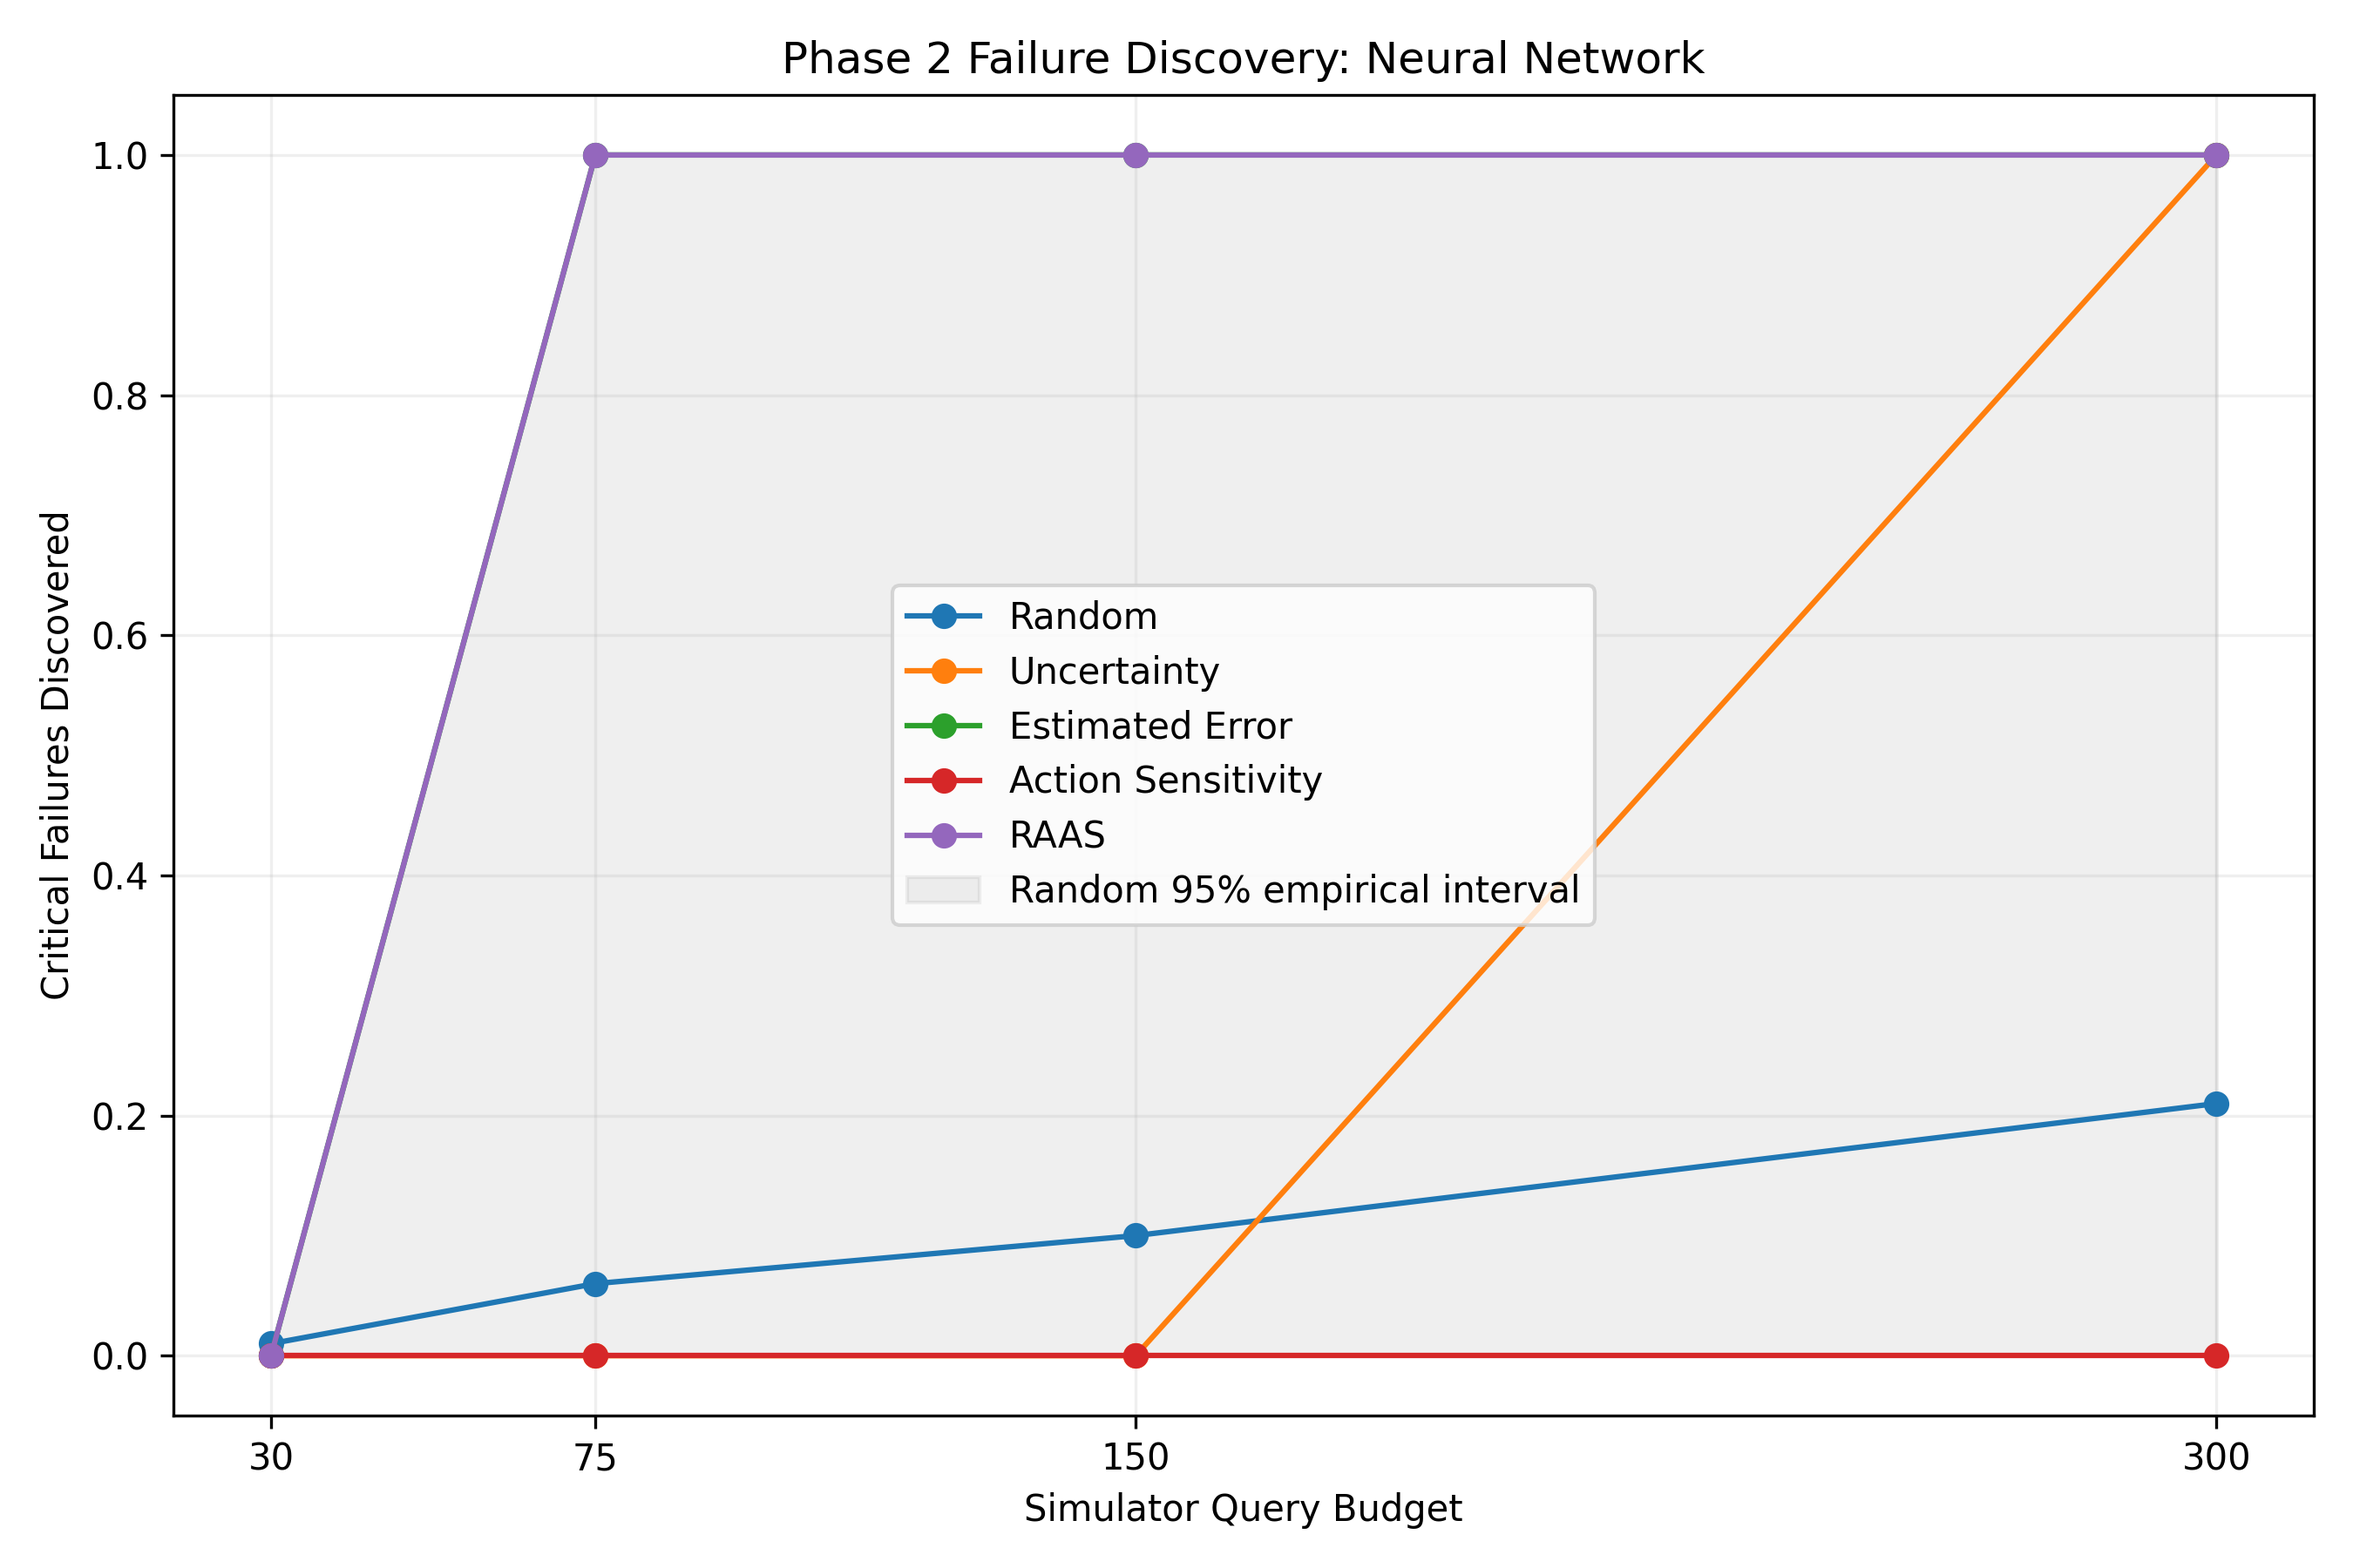
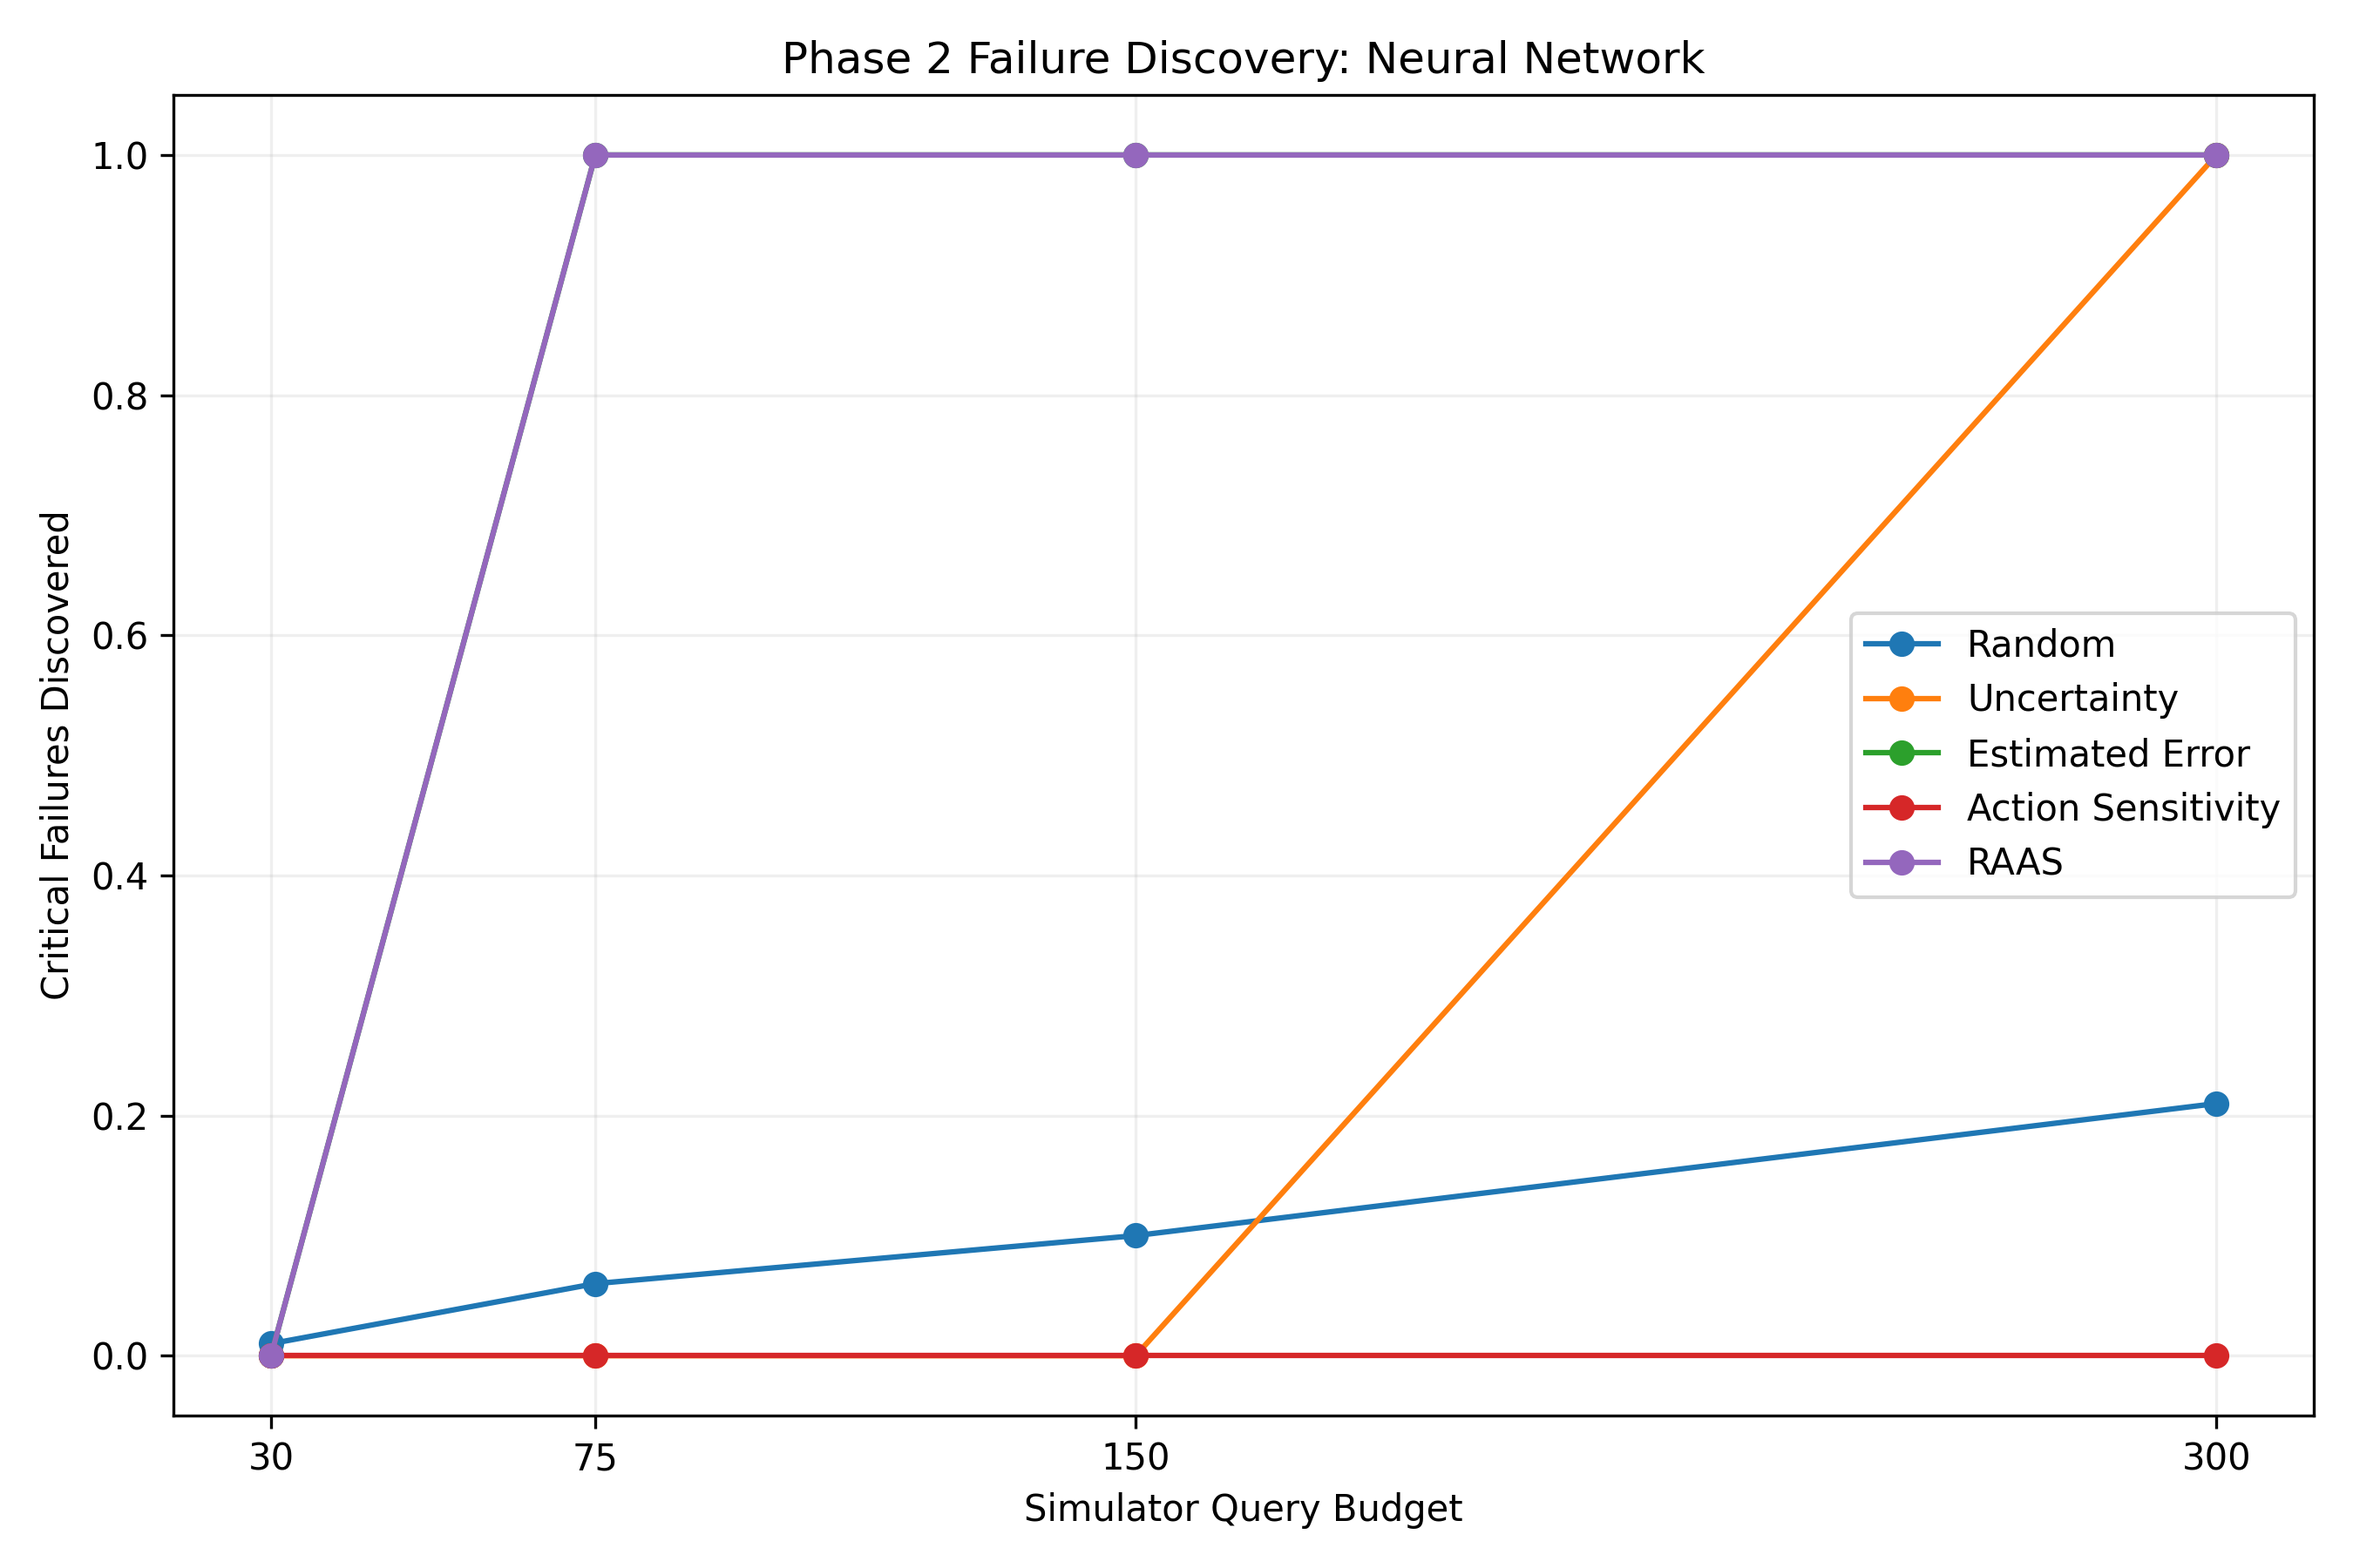
Remove random interval shading from Phase 2

Changed region(s): [[0.3733, 0.3733, 0.6844, 0.5911], [0.7778, 0.4044, 0.9644, 0.56]]

diff --git a/phase2/05_experiments/run_budget_experiment.py b/phase2/05_experiments/run_budget_experiment.py
@@ -221,19 +221,6 @@ for model_name in MODELS:
             label=LABELS[method]
         )
 
-    band = intervals[
-        intervals["model"] == model_name
-    ].sort_values("query_budget")
-
-    plt.fill_between(
-        band["query_budget"].to_numpy(),
-        band["lower"].to_numpy(),
-        band["upper"].to_numpy(),
-        alpha=0.12,
-        color="gray",
-        label="Random 95% empirical interval"
-    )
-
     plt.xlabel("Simulator Query Budget")
     plt.ylabel("Critical Failures Discovered")
 
